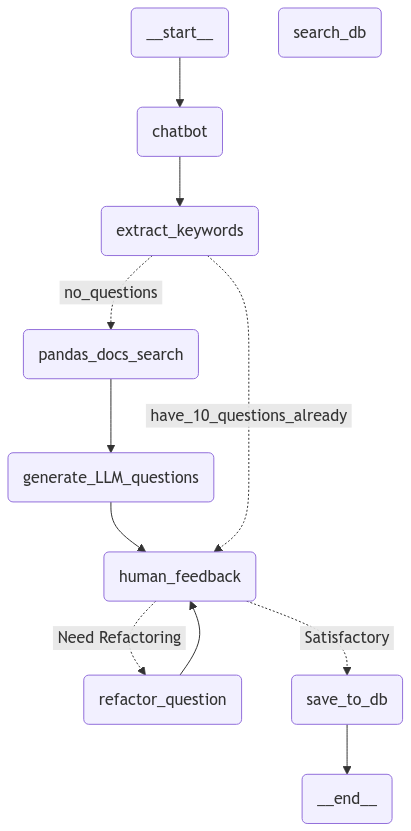
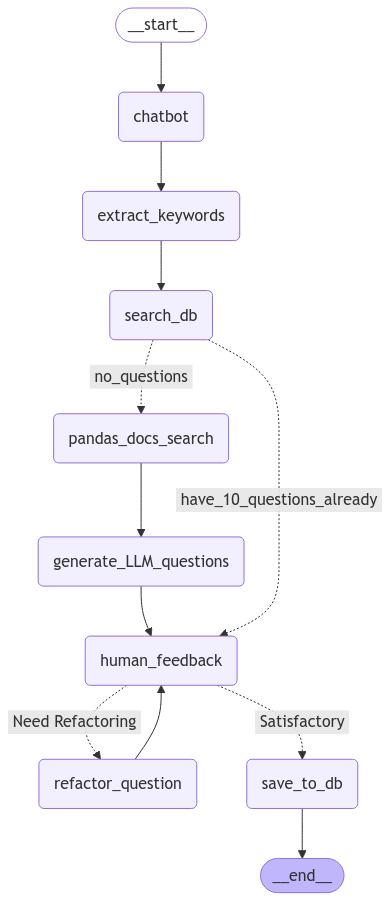
Fixed the issue with orphan node named search_db

diff --git a/Leetpandas/LeetPandas.py b/Leetpandas/LeetPandas.py
@@ -70,9 +70,9 @@ graph_builder.add_node("save_to_db",save_to_db)
 ## Edges
 graph_builder.add_edge(START, "chatbot")
 graph_builder.add_edge('chatbot','extract_keywords')
-
+graph_builder.add_edge('extract_keywords','search_db')
 graph_builder.add_conditional_edges(
-    "extract_keywords",
+    "search_db",
     check_existance, 
     {
         "have_10_questions_already": "human_feedback",
